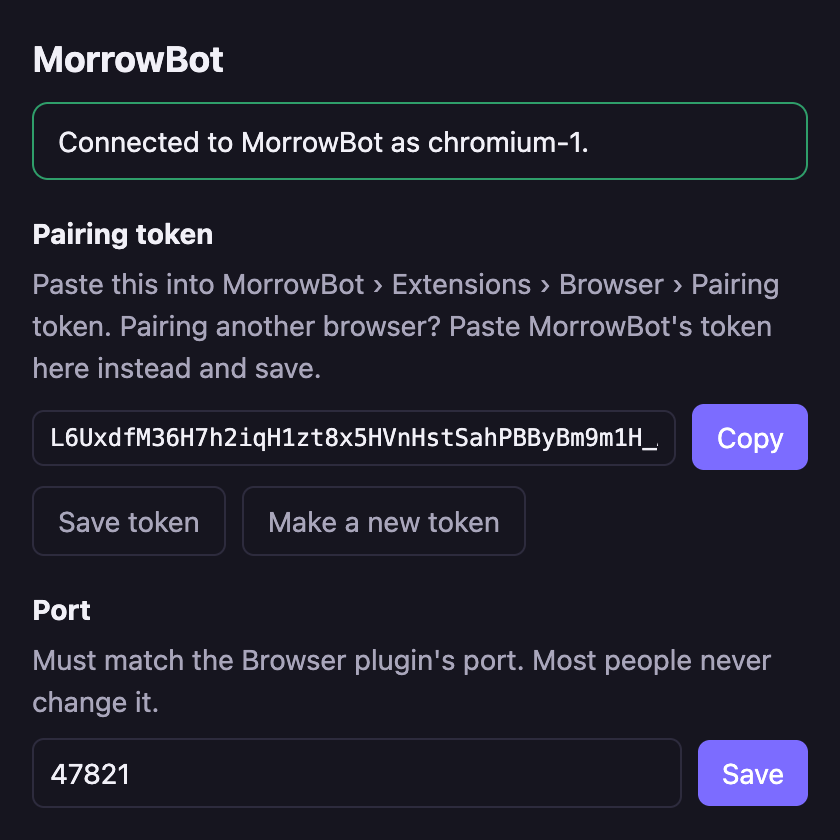
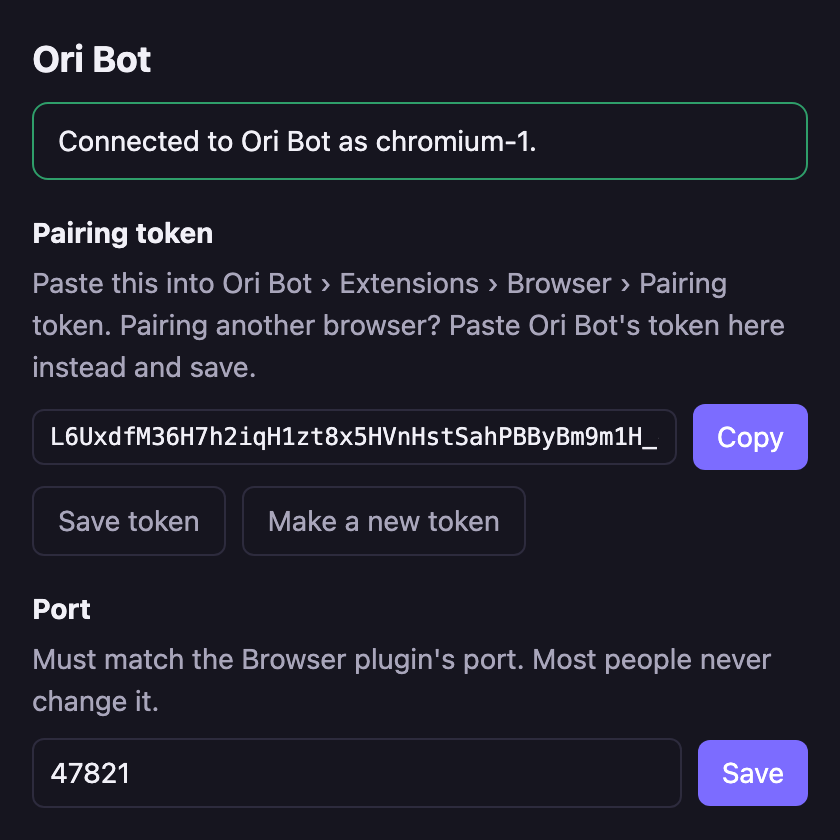
fix(app): finish Ori Bot rename from council review
Recapture the browser-extension README screenshots, rename the takeover
banner tag and scroll-wait global that pages can see, drop the unread
x-morrow-ui-blocks header, and say what Full uninstall keeps.

Closes #209

diff --git a/apps/mobile/src/features/connection/host-http.ts b/apps/mobile/src/features/connection/host-http.ts
@@ -16,8 +16,6 @@ export interface HttpTarget {
   readonly ui: () => UiCapability;
 }
 
-/** The UI-blocks version this app renders; the host tailors `/api/ui/v1` replies to it. */
-export const UI_BLOCKS_VERSION = '0.0';
 const UI_PREFIX = '/api/ui/v1/';
 const UI_PROBE = '/api/ui/v1/capabilities';
 const TIMEOUT_MS = 10_000;
@@ -28,7 +26,7 @@ export async function sendRequest<T>(target: HttpTarget, request: HostRequest<T>
   if (request.path.startsWith(UI_PREFIX) && request.path !== UI_PROBE && target.ui().kind !== 'available') {
     return { kind: 'unsupported' };
   }
-  const headers: Record<string, string> = { accept: 'application/json', 'x-morrow-ui-blocks': UI_BLOCKS_VERSION };
+  const headers: Record<string, string> = { accept: 'application/json' };
   if (target.token !== null) headers.authorization = `Bearer ${target.token}`;
   if (request.body !== undefined) headers['content-type'] = 'application/json';
   const abort = new AbortController();

diff --git a/apps/browser-extension/src/chromium/overlay.ts b/apps/browser-extension/src/chromium/overlay.ts
@@ -14,7 +14,7 @@ const TITLES: Readonly<Record<TakeoverReason, string>> = {
 /** What the banner sends the service worker when the person presses Done or Cancel. */
 export const TakeoverFinished = z.strictObject({ kind: z.literal('takeover-finished'), takeoverId: z.string().min(1), outcome: z.enum(['done', 'cancelled']) });
 
-const HOST_TAG = 'morrowbot-takeover';
+const HOST_TAG = 'oribot-takeover';
 
 /** Runs inside the page (the extension's isolated world), so it must not use anything from outside. */
 function showBanner(tag: string, takeoverId: string, title: string, message: string): void {

diff --git a/apps/browser-extension/src/cdp/input.ts b/apps/browser-extension/src/cdp/input.ts
@@ -24,7 +24,7 @@ const DragData = z.looseObject({
 });
 const DragIntercepted = z.looseObject({ data: DragData });
 
-const WHEEL_WAIT_KEY = '__morrowbotScrollWait';
+const WHEEL_WAIT_KEY = '__oribotScrollWait';
 
 const ARM_WHEEL_WAIT = `(() => {
   const key = '${WHEEL_WAIT_KEY}';

diff --git a/apps/desktop/RELEASING.md b/apps/desktop/RELEASING.md
@@ -101,17 +101,17 @@ and nothing is carried over or migrated. An installed `Ori Kami.app` or `MorrowB
 `Ori Bot.app`, because the bundle id differs: it keeps downloading each new release and failing to install it until
 it is removed.
 
-1. In the old app, Settings › About › **Reset or Uninstall…** › **Full uninstall** removes the app, its data folder
-   (`~/.orikami` or `~/.morrowbot`), its Library files and its Keychain items. Do this rather than keeping the old
-   data: the fence hides only Ori Bot's own data folder, so a kept `~/.orikami`, `~/.orikami-dev`, `~/.morrowbot`
-   or `~/.morrowbot-dev` (chats, vault files, joined-server token) and the `com.legendarykoi.orikami.vault` or
-   `com.legendarykoi.morrowbot.vault` Keychain item stay readable by full-access agents. Delete any you keep, and
-   `Ori Kami Safe Storage` or `MorrowBot Safe Storage` in Keychain Access if it is still there.
+1. In the old app, Settings › About › **Reset or Uninstall…** › **Full uninstall** removes the app, its own files in
+   its data folder (`~/.orikami` or `~/.morrowbot`), its Library files and its Keychain items, including the old
+   release feed token. It keeps agent workspaces (`workspaces/`) and anything else it did not write. Uninstall
+   rather than keeping the old data: the fence hides only Ori Bot's own data folder, so a kept `~/.orikami`,
+   `~/.orikami-dev`, `~/.morrowbot` or `~/.morrowbot-dev` (chats, vault files, joined-server token) and the
+   `com.legendarykoi.orikami.vault` or `com.legendarykoi.morrowbot.vault` Keychain item stay readable by
+   full-access agents. Delete any you keep, and `Ori Kami Safe Storage` or `MorrowBot Safe Storage` in Keychain
+   Access if it is still there.
 2. Install `Ori Bot.app` from the releases repo's latest `.dmg` and drag it into `/Applications`.
 3. Store the release feed token again under the new name:
    `security add-generic-password -s com.legendarykoi.oribot.releases -a releases -w`.
-   The old `com.legendarykoi.orikami.releases` or `com.legendarykoi.morrowbot.releases` item can then be deleted in
-   Keychain Access.
 
 The `ORIKAMI_*` and `MORROWBOT_*` environment variables are now `ORIBOT_*`, including the `ORIBOT_RELEASES_REPO`
 repository variable, and an agent's own skills folder is now `.oribot/skills` in its workspace; the old names are
